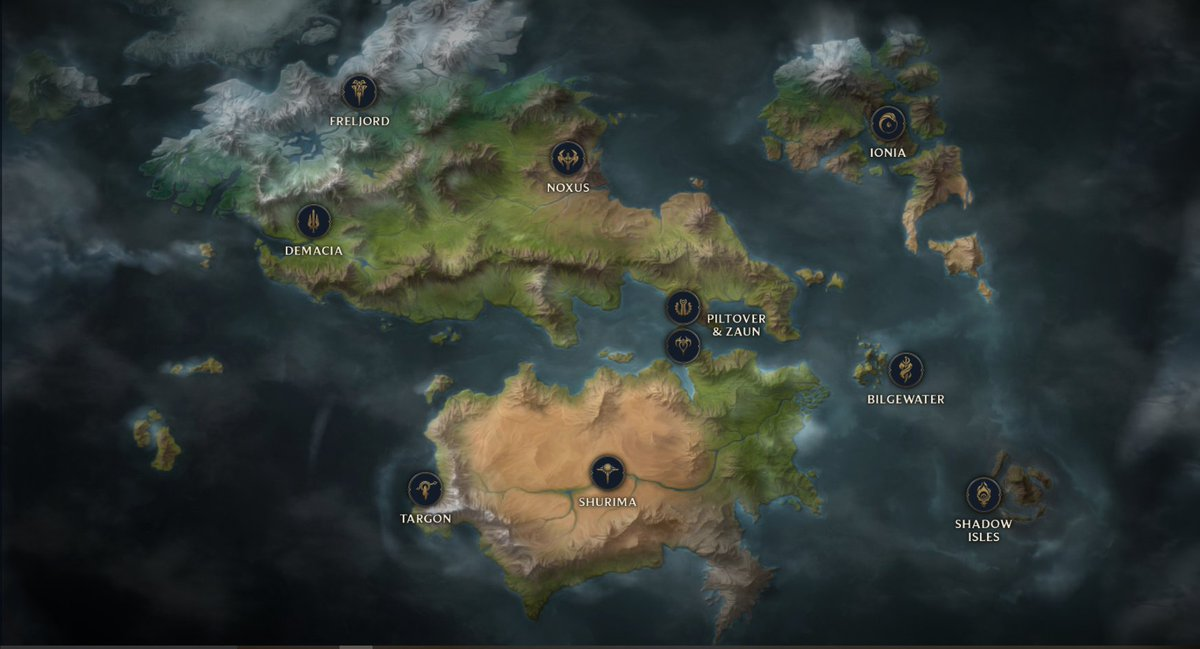
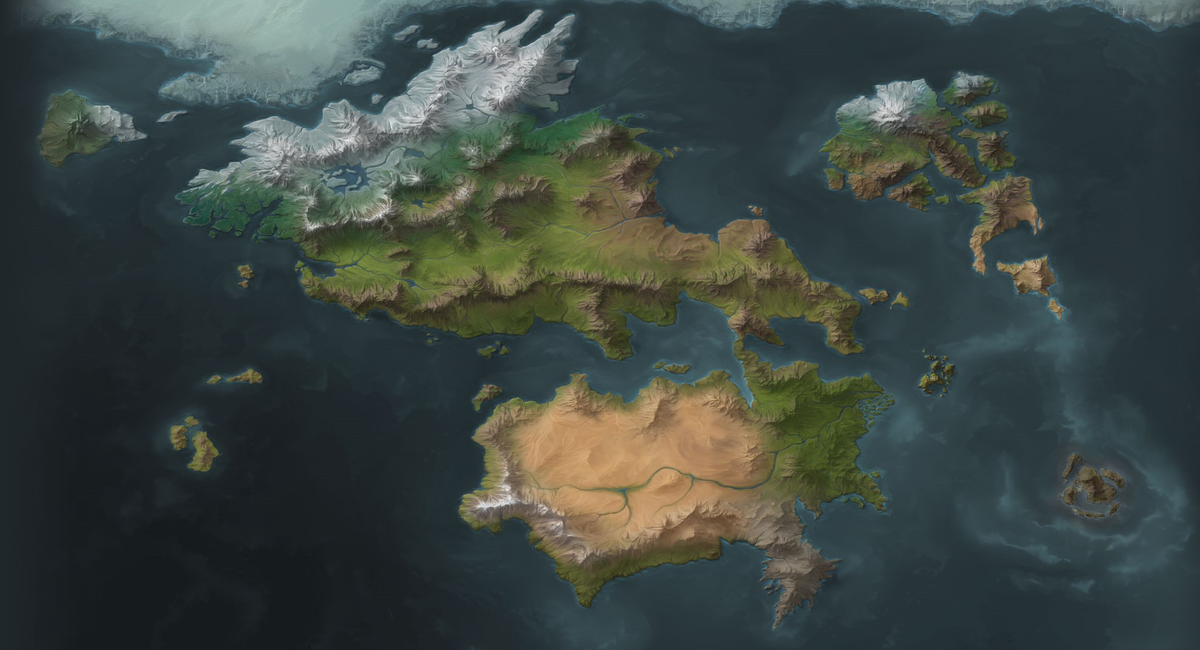
Versao10

diff --git a/client/src/Pages/Home/styles.js b/client/src/Pages/Home/styles.js
@@ -1,5 +1,7 @@
 import styled from 'styled-components';
 
+import LoLmap from '../../image/LoLmap.jpg'
+
 export const HomeTitle = styled.div`
     background-color: #010;
     color: #FFFFFF;
@@ -14,10 +16,55 @@ export const HomeTitle = styled.div`
 `
 export const HomeImage = styled.div`
     background-color: #010;
+    background-image: url(${LoLmap});
     width: 100%;
     height 100%;
     display: flex;
     justify-content: center;
+    
+    font-weight: bold;
+    letter-spacing: 0.05em;
+    flex-direction: column;
+    text-transform: uppercase;
+    font-family: "Beaufort", Arial, sans-serif;
+    font-size: 100px;
+    color: #f0e6d2;
+    letter-spacing: 0.03em;
+    margin-bottom: 15px;
+
+    align-items: center;
+    justify-content: space-around;
+    position: absolute;
+
+   
+`
+export const ButonStyle = styled.div`
+display: inline-block;
+background-image: linear-gradient(#171b21,#171b21),linear-gradient(#c89b3c,#785a28);
+
+background-clip: padding-box,border-box;
+background-origin: padding-box,border-box;
+border: 2px solid transparent;
+
+border: 4px double #cccccc;
+color: #e0ee;
+text-align: center;
+font-size: 28px;
+padding: 20px;
+width: 200px;
+-webkit-transition: all 0.5s;
+-moz-transition: all 0.5s;
+-o-transition: all 0.5s;
+transition: all 0.5s;
+cursor: pointer;
+margin: 5px;
+
+font-weight: bold;
+    letter-spacing: 0.05em;
+    line-height: 100%;
+    text-transform: uppercase;
+    font-family: "Beaufort", Arial, sans-serif;
+    font-size: 14px;
 `
 
 export const HomeText = styled.div`

diff --git a/client/src/Pages/Home/index.js b/client/src/Pages/Home/index.js
@@ -1,13 +1,17 @@
 /* eslint-disable jsx-a11y/alt-text */
-import {HomeImage, HomeTitle, HomeText } from "./styles";
-
+import {HomeImage, HomeTitle, HomeText, ButonStyle } from "./styles";
+import Card from "./BoxFlip/Crd";
+import "./BoxFlip/styles.css";
 
 import React, {useEffect, useState} from 'react'
 import axios from 'axios'
 
-import LoLmap from '../../image/LoLmap.png'
 
 const Home = () => {
+
+
+    
+    /*
     const [backendData, setBackendData] = useState([])
 
     useEffect(()=>{
@@ -18,23 +22,21 @@ const Home = () => {
         })
       },[])
 
+      <p>{backendData.text}</p>
+
+       */
     return (
-
+     
     <div>
-    <HomeTitle>
-        Titulo
-    </HomeTitle>
-
     <HomeImage>        
-        <img src={LoLmap}/>  
+        <p>Runeterra</p>
+        <ButonStyle>
+        <button type="button">Begin exploring</button>
+        </ButonStyle>        
     </HomeImage>
 
+        
 
-    <HomeText>
-
-       <p>{backendData.text}</p>
-
-    </HomeText>
     </div>
    );
   }
